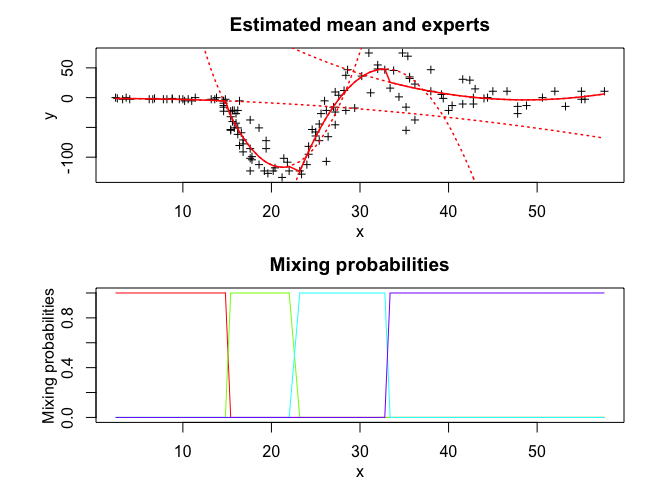
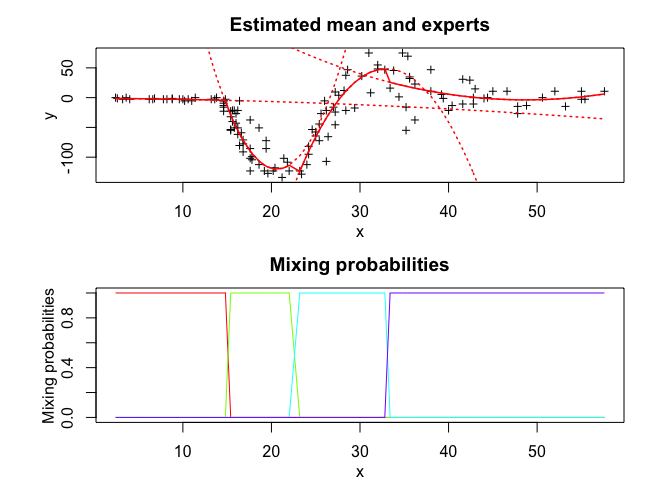
Update README and vignette
Update vignette and README.Rmd (Add information about the model).

diff --git a/README.md b/README.md
@@ -5,7 +5,12 @@
 Overview
 ========
 
-User-friendly and flexible algorithm for modeling, sampling, inference, and clustering heteregenous data with Robust of Mixture-of-Experts using the t distribution.
+**TMoE** (t Mixture-of-Experts) provides a flexible and robust modelling framework for heterogenous data with possibly heavy-tailed distributions and corrupted by atypical observations. **TMoE** consists of a mixture of *K* t expert regressors network (of degree *p*) gated by a softmax gating network (of degree *q*) and is represented by:
+
+-   The gating network parameters `alpha`'s of the softmax net.
+-   The experts network parameters: The location parameters (regression coefficients) `beta`'s, scale parameters `sigma`'s, and the degree of freedom (robustness) parameters `nu`'s. **TMoE** thus generalises mixtures of (normal, t, and) distributions and mixtures of regressions with these distributions. For example, when *q* = 0, we retrieve mixtures of (t-, or normal) regressions, and when both *p* = 0 and *q* = 0, it is a mixture of (t-, or normal) distributions. It also reduces to the standard (normal, t) distribution when we only use a single expert (*K* = 1).
+
+Model estimation/learning is performed by a dedicated expectation conditional maximization (ECM) algorithm by maximizing the observed data log-likelihood. We provide simulated examples to illustrate the use of the model in model-based clustering of heterogeneous regression data and in fitting non-linear regression functions.
 
 Installation
 ============
@@ -40,6 +45,8 @@ library(tMoE)
 ```
 
 ``` r
+# Application to a simulated data set
+
 n <- 500 # Size of the sample
 alphak <- matrix(c(0, 8), ncol = 1) # Parameters of the gating network
 betak <- matrix(c(0, -2.5, 0, 2.5), ncol = 2) # Regression coefficients of the experts
@@ -64,63 +71,86 @@ verbose_IRLS <- FALSE
 
 tmoe <- emTMoE(X = x, Y = y, K, p, q, n_tries, max_iter, 
                threshold, verbose, verbose_IRLS)
-#> EM - tMoE: Iteration: 1 | log-likelihood: -467.484207943383
-#> EM - tMoE: Iteration: 2 | log-likelihood: -466.615417062891
-#> EM - tMoE: Iteration: 3 | log-likelihood: -466.337042836754
-#> EM - tMoE: Iteration: 4 | log-likelihood: -466.070457425424
-#> EM - tMoE: Iteration: 5 | log-likelihood: -465.820097871588
-#> EM - tMoE: Iteration: 6 | log-likelihood: -465.59172336557
-#> EM - tMoE: Iteration: 7 | log-likelihood: -465.388858492026
-#> EM - tMoE: Iteration: 8 | log-likelihood: -465.212841762827
-#> EM - tMoE: Iteration: 9 | log-likelihood: -465.063206596746
-#> EM - tMoE: Iteration: 10 | log-likelihood: -464.938176973375
-#> EM - tMoE: Iteration: 11 | log-likelihood: -464.835059669474
-#> EM - tMoE: Iteration: 12 | log-likelihood: -464.750955217815
-#> EM - tMoE: Iteration: 13 | log-likelihood: -464.682634667636
-#> EM - tMoE: Iteration: 14 | log-likelihood: -464.627122247056
-#> EM - tMoE: Iteration: 15 | log-likelihood: -464.581708343698
-#> EM - tMoE: Iteration: 16 | log-likelihood: -464.544008101863
-#> EM - tMoE: Iteration: 17 | log-likelihood: -464.511973303813
-#> EM - tMoE: Iteration: 18 | log-likelihood: -464.48388593876
-#> EM - tMoE: Iteration: 19 | log-likelihood: -464.458333326098
-#> EM - tMoE: Iteration: 20 | log-likelihood: -464.434166675474
-#> EM - tMoE: Iteration: 21 | log-likelihood: -464.410451079609
-#> EM - tMoE: Iteration: 22 | log-likelihood: -464.386385026039
-#> EM - tMoE: Iteration: 23 | log-likelihood: -464.361176140826
-#> EM - tMoE: Iteration: 24 | log-likelihood: -464.333866851588
-#> EM - tMoE: Iteration: 25 | log-likelihood: -464.30316254427
-#> EM - tMoE: Iteration: 26 | log-likelihood: -464.267394206326
-#> EM - tMoE: Iteration: 27 | log-likelihood: -464.224367733289
-#> EM - tMoE: Iteration: 28 | log-likelihood: -464.172112630194
-#> EM - tMoE: Iteration: 29 | log-likelihood: -464.109815010866
-#> EM - tMoE: Iteration: 30 | log-likelihood: -464.038736524052
-#> EM - tMoE: Iteration: 31 | log-likelihood: -463.962315916051
-#> EM - tMoE: Iteration: 32 | log-likelihood: -463.885450766327
-#> EM - tMoE: Iteration: 33 | log-likelihood: -463.813572771726
-#> EM - tMoE: Iteration: 34 | log-likelihood: -463.751554962499
-#> EM - tMoE: Iteration: 35 | log-likelihood: -463.702323794321
-#> EM - tMoE: Iteration: 36 | log-likelihood: -463.665771345812
-#> EM - tMoE: Iteration: 37 | log-likelihood: -463.639379031063
-#> EM - tMoE: Iteration: 38 | log-likelihood: -463.619418841704
-#> EM - tMoE: Iteration: 39 | log-likelihood: -463.601964937016
-#> EM - tMoE: Iteration: 40 | log-likelihood: -463.582863628625
-#> EM - tMoE: Iteration: 41 | log-likelihood: -463.557060411394
-#> EM - tMoE: Iteration: 42 | log-likelihood: -463.51811126831
-#> EM - tMoE: Iteration: 43 | log-likelihood: -463.458979020015
-#> EM - tMoE: Iteration: 44 | log-likelihood: -463.376006336921
-#> EM - tMoE: Iteration: 45 | log-likelihood: -463.27338429431
-#> EM - tMoE: Iteration: 46 | log-likelihood: -463.161815389988
-#> EM - tMoE: Iteration: 47 | log-likelihood: -463.051950036624
-#> EM - tMoE: Iteration: 48 | log-likelihood: -462.951095825399
-#> EM - tMoE: Iteration: 49 | log-likelihood: -462.864922984443
-#> EM - tMoE: Iteration: 50 | log-likelihood: -462.798775633338
-#> EM - tMoE: Iteration: 51 | log-likelihood: -462.754928303606
-#> EM - tMoE: Iteration: 52 | log-likelihood: -462.729936927635
-#> EM - tMoE: Iteration: 53 | log-likelihood: -462.717421323998
-#> EM - tMoE: Iteration: 54 | log-likelihood: -462.711616081403
-#> EM - tMoE: Iteration: 55 | log-likelihood: -462.708946454606
+#> EM - tMoE: Iteration: 1 | log-likelihood: -492.670213386795
+#> EM - tMoE: Iteration: 2 | log-likelihood: -489.915829292061
+#> EM - tMoE: Iteration: 3 | log-likelihood: -489.586457591108
+#> EM - tMoE: Iteration: 4 | log-likelihood: -489.327446970166
+#> EM - tMoE: Iteration: 5 | log-likelihood: -489.081096659076
+#> EM - tMoE: Iteration: 6 | log-likelihood: -488.849882479611
+#> EM - tMoE: Iteration: 7 | log-likelihood: -488.637398834361
+#> EM - tMoE: Iteration: 8 | log-likelihood: -488.446030915537
+#> EM - tMoE: Iteration: 9 | log-likelihood: -488.27688295417
+#> EM - tMoE: Iteration: 10 | log-likelihood: -488.129922249682
+#> EM - tMoE: Iteration: 11 | log-likelihood: -488.004210279862
+#> EM - tMoE: Iteration: 12 | log-likelihood: -487.898165292998
+#> EM - tMoE: Iteration: 13 | log-likelihood: -487.809814404183
+#> EM - tMoE: Iteration: 14 | log-likelihood: -487.737008622155
+#> EM - tMoE: Iteration: 15 | log-likelihood: -487.677588822589
+#> EM - tMoE: Iteration: 16 | log-likelihood: -487.629501724981
+#> EM - tMoE: Iteration: 17 | log-likelihood: -487.590871707835
+#> EM - tMoE: Iteration: 18 | log-likelihood: -487.560037395585
+#> EM - tMoE: Iteration: 19 | log-likelihood: -487.53556246746
+#> EM - tMoE: Iteration: 20 | log-likelihood: -487.516229161562
+#> EM - tMoE: Iteration: 21 | log-likelihood: -487.50102131609
+#> EM - tMoE: Iteration: 22 | log-likelihood: -487.489102046225
+#> EM - tMoE: Iteration: 23 | log-likelihood: -487.479789592736
+#> EM - tMoE: Iteration: 24 | log-likelihood: -487.472533616402
+#> EM - tMoE: Iteration: 25 | log-likelihood: -487.466893266675
+#> EM - tMoE: Iteration: 26 | log-likelihood: -487.46251768769
 
 tmoe$plot()
 ```
 
 <img src="man/figures/README-unnamed-chunk-6-1.png" style="display: block; margin: auto;" /><img src="man/figures/README-unnamed-chunk-6-2.png" style="display: block; margin: auto;" /><img src="man/figures/README-unnamed-chunk-6-3.png" style="display: block; margin: auto;" /><img src="man/figures/README-unnamed-chunk-6-4.png" style="display: block; margin: auto;" />
+
+``` r
+# Application to a real data set
+
+library(MASS)
+data("mcycle")
+x <- mcycle$times
+y <- mcycle$accel
+
+K <- 4 # Number of regressors/experts
+p <- 2 # Order of the polynomial regression (regressors/experts)
+q <- 1 # Order of the logistic regression (gating network)
+
+n_tries <- 1
+max_iter <- 1500
+threshold <- 1e-5
+verbose <- TRUE
+verbose_IRLS <- FALSE
+
+tmoe <- emTMoE(X = x, Y = y, K, p, q, n_tries, max_iter, 
+               threshold, verbose, verbose_IRLS)
+#> EM - tMoE: Iteration: 1 | log-likelihood: -586.258511424199
+#> EM - tMoE: Iteration: 2 | log-likelihood: -580.261916520597
+#> EM - tMoE: Iteration: 3 | log-likelihood: -578.265257686099
+#> EM - tMoE: Iteration: 4 | log-likelihood: -576.373943484357
+#> EM - tMoE: Iteration: 5 | log-likelihood: -572.5828884707
+#> EM - tMoE: Iteration: 6 | log-likelihood: -565.334422477621
+#> EM - tMoE: Iteration: 7 | log-likelihood: -559.742026243344
+#> EM - tMoE: Iteration: 8 | log-likelihood: -557.920165895962
+#> EM - tMoE: Iteration: 9 | log-likelihood: -557.026750962574
+#> EM - tMoE: Iteration: 10 | log-likelihood: -556.165685195073
+#> EM - tMoE: Iteration: 11 | log-likelihood: -555.256178338343
+#> EM - tMoE: Iteration: 12 | log-likelihood: -554.27281091465
+#> EM - tMoE: Iteration: 13 | log-likelihood: -553.288997408045
+#> EM - tMoE: Iteration: 14 | log-likelihood: -552.553612397043
+#> EM - tMoE: Iteration: 15 | log-likelihood: -552.119165838412
+#> EM - tMoE: Iteration: 16 | log-likelihood: -551.854152331833
+#> EM - tMoE: Iteration: 17 | log-likelihood: -551.68382157495
+#> EM - tMoE: Iteration: 18 | log-likelihood: -551.573687576638
+#> EM - tMoE: Iteration: 19 | log-likelihood: -551.5026355973
+#> EM - tMoE: Iteration: 20 | log-likelihood: -551.456762092582
+#> EM - tMoE: Iteration: 21 | log-likelihood: -551.427005228698
+#> EM - tMoE: Iteration: 22 | log-likelihood: -551.407560381911
+#> EM - tMoE: Iteration: 23 | log-likelihood: -551.394734248294
+#> EM - tMoE: Iteration: 24 | log-likelihood: -551.386179241115
+#> EM - tMoE: Iteration: 25 | log-likelihood: -551.380398961129
+#> EM - tMoE: Iteration: 26 | log-likelihood: -551.376435076552
+
+tmoe$plot()
+```
+
+<img src="man/figures/README-unnamed-chunk-7-1.png" style="display: block; margin: auto;" /><img src="man/figures/README-unnamed-chunk-7-2.png" style="display: block; margin: auto;" /><img src="man/figures/README-unnamed-chunk-7-3.png" style="display: block; margin: auto;" /><img src="man/figures/README-unnamed-chunk-7-4.png" style="display: block; margin: auto;" />
